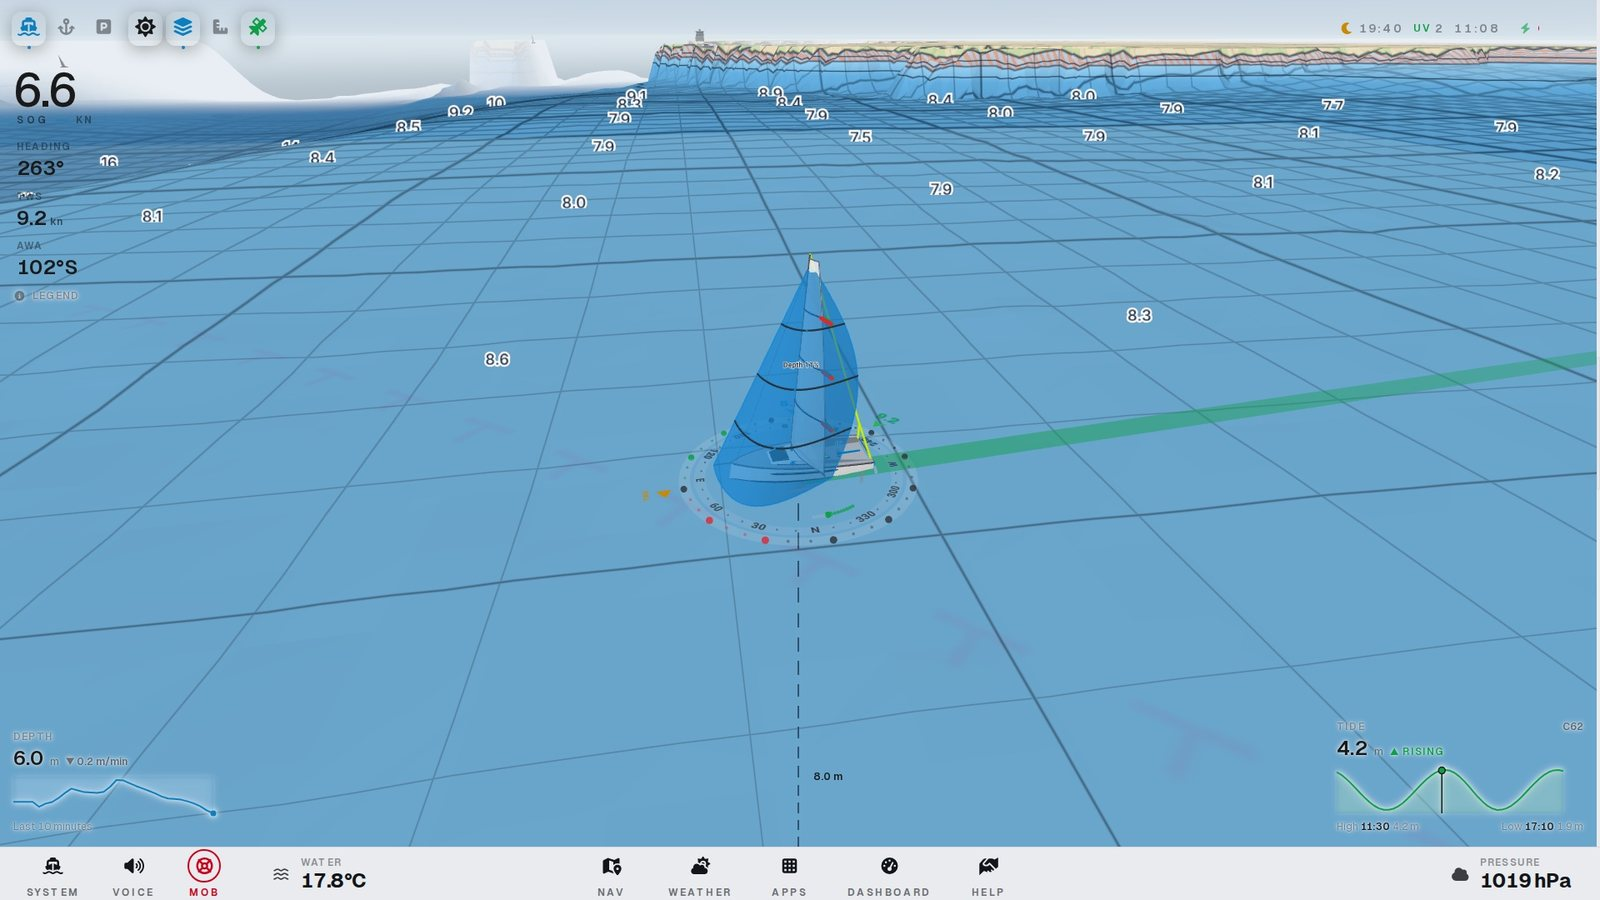
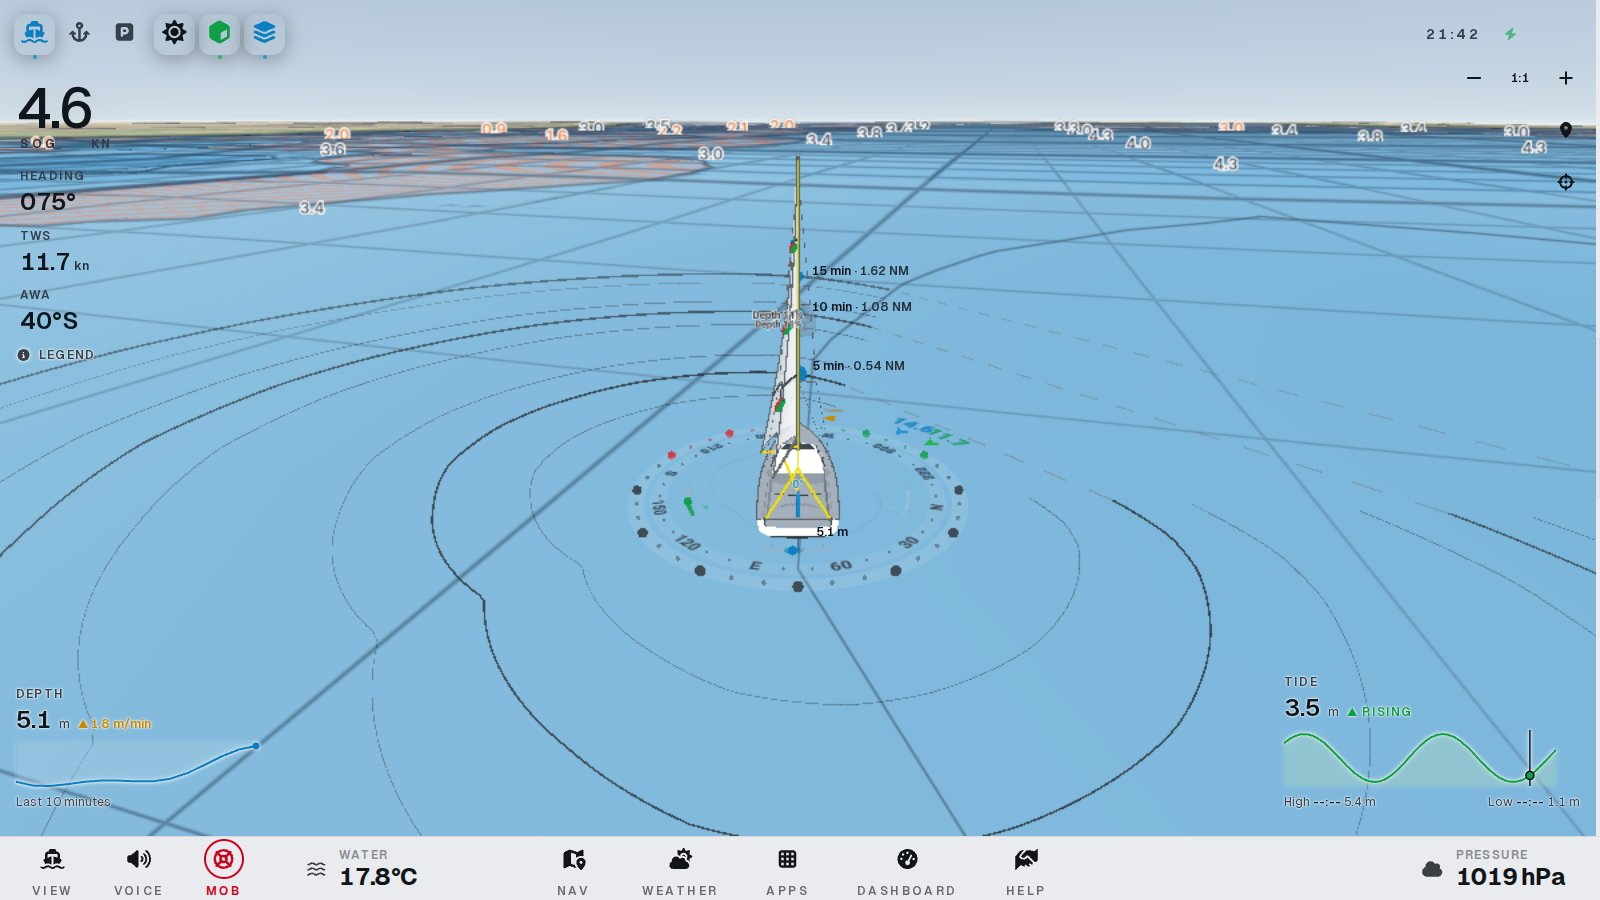
[Setup] Release 2.1.3: README, guide, website and screenshots for the base and layers 3D view, currents, NOAA charts and the finer seabed

diff --git a/CHANGELOG.md b/CHANGELOG.md
@@ -1,37 +1,40 @@
-## [Unreleased]
+## [2.1.3] - 2026-10-18
+
+The 3D view becomes a base and layers: the sea, a grid or the 3D chart, with AIS, wind, currents, laylines, the polar and buoys on top. Currents arrive, the wind and the currents read like a chart plotter's tidal streams, the seabed is finer all over the world and NOAA's charts show in US waters. Full speed again on the Raspberry Pi, sharper on phones.
 
 ### Added
 
 - **Currents layer.** The water column of the 3D chart, from the surface down to the seabed, coloured by the current (Grid Viewer's thermal colour map): the deeper the water and the stronger the stream, the denser the colour; slack water and shallows stay light over the relief. Arrows drawn the way chart plotters draw tidal streams give the direction: as long as the stream is strong, the speed written on them, a red border when it builds over the next hour and a blue one when it eases, "Slack" when it stops; they keep the same size on screen near and far, spread evenly from the cockpit to the horizon. Forecast from the Open-Meteo marine API (Mercator Ocean's SMOC, 1/12°, tides included), 48 hours on the forecast bar; the colour scale spans the strongest current of the two days around. Offline, the current the instruments measure.
 - **Currents over every base**: the arrows alone over the sea and the grid; the 3D chart also colours the water column.
-- **NOAA nautical charts in US waters.** Where the Signal K server has no chart, the 3D chart lays NOAA's official chart (drawn from its electronic charts by the NOAA Chart Display Service, public domain) over OpenStreetMap: depths, buoys, lights, bridge clearances, anchorages. Its tiles can be downloaded ahead with the area, in the settings.
+- **NOAA nautical charts in US waters.** Where the Signal K server has no chart, the 3D chart lays NOAA's official chart (drawn from its electronic charts by the NOAA Chart Display Service, public domain) over OpenStreetMap: depths, buoys, lights, bridge clearances, anchorages. Drawn more opaque than OpenStreetMap over the seabed (a real chart, like one from the Signal K server). Its tiles can be downloaded ahead with the area, in the settings.
 - **Finer seabed all over the world.** Outside the SHOM surveys, the 3D chart takes the best open grid for the area: EMODnet Bathymetry in Europe (~115 m) and NOAA NCEI's DEM mosaic elsewhere (coastal surveys down to a few metres along the US coasts, ETOPO 2022 at ~450 m everywhere else), instead of the ~1.8 km global relief. Kept for offline use and downloaded with the area in the settings.
 - **One card per corner, changed with a tap** (full screen): depth, wind, speed and tide in turn; depth on the left and tide on the right by default, the choice kept. Every card records its last 10 minutes from the start, so the curve is full when tapped to. A new speed card: SOG, STW and the best of the last 10 minutes with their curve.
+- **VIEW button**: the boat full screen, or the boat beside the app (a phone shows one or the other); settings come first in the APPS menu, and an app opens beside the boat.
 - **Speed at the boat over the next two days** on the forecast bar, for the wind and the current: the turn of the tide or the arrival of a front at a glance, the value at the chosen hour beside it.
 
 ### Changed
 
-- **Wind layer as a volume of air.** The air above the water coloured by the wind, more with the depth of air towards the horizon, gusty wisps drifting with it, arrows at 10 m in the same chart plotter style (speed in knots, building or easing), and 150 streaks instead of 1 100. The flat sheet stays available (`windStyle: 'sheet'`), and Windy's colours can give way to a Grid Viewer colour map (`windColorMap`).
-
+- **Website at [ocearo.leslaborie.org](https://ocearo.leslaborie.org)** (the old address redirects), with an About section, a contact address and an llms.txt.
+- **Wind layer as a volume of air.** The air above the water coloured by the wind, more with the depth of air towards the horizon, gusty wisps drifting with it, arrows just above the waves in the same chart plotter style (speed in knots, building or easing), and 150 streaks instead of 1 100. The flat sheet stays available (`windStyle: 'sheet'`), and Windy's colours can give way to a Grid Viewer colour map (`windColorMap`).
 - **Three bases and layers in the 3D view.** One button cycles the base: the sea, the plain grid, or the 3D chart (seabed relief with the chart over it); the flat chart and the meteo map are gone (a saved meteo view opens as the 3D chart with the wind). A layers button adds, on any base: other vessels (AIS), wind (Windy-style; streaks only over the sea), laylines, polar, buoys and beacons.
 - **Phones and split view: the vertical depth and tide gauges again**; the depth, wind and tide cards are for full screen when there is room.
 - **Phone on its side: the depth and tide gauges side by side at the bottom right**, clear of the speed, heading and wind values down the left edge.
 - **Opaque menus** (APPS, layers): they read on a phone and on a Pi.
 - **Windsurf and wing foil let out their rig for the wind**, like the racer's boom, the hands staying on the wishbone or the handles.
 - **Sharper 3D on phones**: up to 2.5 pixels per CSS pixel instead of 1.5.
-
 - **Boats: the Racer 10.8 first, "Default" renamed "Sailboat".** The old low-poly sailboat is gone; a boat saved as "Default" becomes "Sailboat", the Optimist goes back to the Racer.
-
 - **Windsurf and Wing foil boats: the author riding them.** The Optimist and the old static windsurf are replaced by two animated models with their rider (the author's 3D avatar): a JP Magic Ride 119 with a Duotone E_Pace 6.2, and a wing foil board on its foil with a 5 m² wing. The rider moves to the windward rail on the other tack, rides faster with the speed, and the foil board lifts off from about 7 knots. Drawn 2.2 times larger than life so they read in the compass ring; under 1 MB each (Draco). A boat set to Optimist goes back to the default one.
 
 ### Fixed
 
+- **Bottom bar on a phone on its side and on a 1024 px tablet**: the water temperature ran over the buttons in the middle.
+- **Course advice banner over the depth and tide cards** on a narrow full screen: it now stays between them.
+- **Wind and current arrows over the HUD**: no arrow is drawn under the values, the bars or the cards; the forecast bar sits beside the values on a phone held upright.
+- **3D view at 0.5 fps on the Raspberry Pi**: every line recompiled its shader on each render. The Pi is now told by its GPU (its reduced user agent says x86), draws at 75 % resolution and without the HUD's backdrop blur.
+- **Logbook kept the Pi's browser at 100 % CPU**: the table re-rendered on every Signal K delta; live values are now read when an entry is written.
 - **Phone on its side: nothing on top of anything.** The forecast bar shrinks to the slider and the curves and becomes nearly opaque (vessel names and arrow speeds showed through), the speed and the values on the left get smaller so the last one is no longer cut by the bottom bar, and the speeds on the wind and current arrows hide under the HUD like the vessel names.
-
 - **Layers menu on phones.** It ran off the right edge of a phone held upright, was cut at the bottom on a phone on its side, and opened under the HUD values, the give-way banner and the vessel card: it now opens leftwards upright, in two columns on its side, over the HUD.
-
 - **Fuzzy text over the 3D chart.** The HUD's secondary text was translucent black, a dull blue-grey over the water, with a wide blurred halo: now opaque greys and a tight outline.
-
 - **True wind from the apparent wind** when the boat publishes none (many instruments, and the Signal K demo server): the polar, the sail plan and the laylines took 0 kn from dead ahead.
 - **Demo mode no longer rewrites the server's data**: the sample values only fill in what the server does not send (the wind angle spun every 5 s over the demo server's own wind).
 - **Blurry 3D on phones in automatic quality.** Phone GPUs (Mali, Adreno, PowerVR) were taken for a Raspberry Pi: 75 % resolution, no anti-aliasing, 30 fps. The reduced profile is now for the Pi's own GPU and software rendering only.

diff --git a/README.fr.md b/README.fr.md
@@ -44,7 +44,7 @@
 ## Points forts
 
 - **Un bateau qu’on règle depuis l’écran.** Grand-voile, voiles d’avant et spi asymétrique dessinés d’après le vent (creux, vrillage, ris, changements de voile), avec bandes de creux, penons, chariot de grand-voile et chariots de foc à leur place.
-- **La mer autour de vous, de cinq façons.** Une mer réaliste construite à partir du vent réel (ou mesurée par une centrale inertielle), la carte en direct avec le balisage, le fond en 3D, la prévision de vent, ou un sol épuré façon FSD pour la régate — avec les bouées et balises en 3D et le vrai ciel de nuit.
+- **La mer autour de vous, en couches.** Trois bases — une mer réaliste construite à partir du vent réel (ou mesurée par une centrale inertielle), une grille épurée façon FSD pour la régate, ou la carte 3D avec les fonds en relief — et des couches par-dessus : trafic AIS, prévision de vent et de courants, laylines, polaire, bouées et balises en 3D, et le vrai ciel de nuit. Cartes NOAA dans les eaux américaines, des fonds plus fins partout dans le monde.
 - **Un trafic lisible d’un coup d’œil.** Les cibles AIS dessinées selon leur type et leur taille réels, qui glissent entre deux messages, colorées selon qui doit manœuvrer d’après le RIPAM — avec la manœuvre à faire.
 - **La tactique.** Laylines vers le waypoint, isochrones tirées de vos polaires (où vous serez dans 5, 10 et 15 minutes), conseil VMG et bateau fantôme à la vitesse polaire.
 - **La sécurité d’abord.** Repère homme à la mer avec dérive estimée, veille au mouillage avec la vraie trace d’évitage, alerte de petits fonds selon votre tirant d’eau.
@@ -55,14 +55,16 @@
 
 ## La vue 3D
 
-Le cœur d’Ocearo est une scène 3D en direct centrée sur votre bateau. Un bouton fait défiler cinq représentations du monde autour.
+Le cœur d’Ocearo est une scène 3D en direct centrée sur votre bateau. Un bouton choisit la base — la mer, une grille ou la carte 3D — et le menu des couches ajoute ce qu’il faut par-dessus : trafic AIS, vent, courants, laylines, polaire, bouées et balises.
 
 | | |
 |---|---|
-| ![Carte en direct avec balisage et AIS](docs/screenshots/chart.jpg) | ![Bathymétrie SHOM en grille de relevé](docs/screenshots/bathymetry.jpg) |
-| **Carte.** OpenStreetMap avec le balisage et les feux OpenSeaMap, à l’échelle de votre bateau et des cibles AIS. Utilise un fournisseur de cartes Signal K (MBTiles) s’il est installé. | **Bathymétrie.** Le fond en grille de relevé : relief exagéré, isobathes, sondes à la marée du moment, ligne de sondeur depuis la quille, et l’eau trop peu profonde pour votre tirant d’eau hachurée en orange. Relevés SHOM de 5 à 20 m sur les côtes françaises, relief mondial ailleurs. |
-| ![Calque de prévision de vent](docs/screenshots/weather.jpg) | ![Isochrones et laylines](docs/screenshots/polars.jpg) |
-| **Météo.** La prévision de vent à 48 h autour du bateau (Open-Meteo) aux couleurs de Windy, avec un curseur de temps. | **Polaires et laylines.** Où les polaires vous mettent dans 5, 10 et 15 minutes à chaque cap, les laylines vers le waypoint et la VMG à suivre. |
+| ![Carte 3D : les fonds en relief, la carte par-dessus](docs/screenshots/bathymetry.jpg) | ![Courants : l’eau colorée par le courant, flèches façon traceur](docs/screenshots/currents.jpg) |
+| **Carte 3D.** Les fonds en relief, colorés selon la profondeur, avec la carte en transparence par-dessus : isobathes, sondes à la marée du moment, ligne de sondeur depuis la quille, et l’eau trop peu profonde pour votre tirant d’eau hachurée en orange. Relevés SHOM de 5 à 20 m en France, EMODnet (~115 m) en Europe, grilles NOAA ailleurs (quelques mètres le long des côtes américaines). | **Courants.** L’eau, de la surface au fond, colorée par le courant (prévision Mercator via Open-Meteo, marée comprise) : claire à l’étale et sur les hauts-fonds, pleine couleur là où il porte. Des flèches façon traceur de cartes donnent la direction et la vitesse en nœuds, avec un liseré rouge quand il forcit et bleu quand il faiblit. |
+| ![Prévision de vent en 3D : flèches avec la vitesse et la courbe sur 48 h](docs/screenshots/weather.jpg) | ![Isochrones et laylines](docs/screenshots/polars.jpg) |
+| **Vent.** La prévision à 48 h autour du bateau (Open-Meteo) aux couleurs de Windy : l’air teinté par le vent, quelques traits et des flèches avec la force en nœuds. La barre de prévision a un curseur de temps et la courbe du vent et du courant au bateau sur les deux jours. | **Polaires et laylines.** Où les polaires vous mettent dans 5, 10 et 15 minutes à chaque cap, les laylines vers le waypoint et la VMG à suivre. |
+| ![Carte marine NOAA sur les fonds aux Narrows, New York](docs/screenshots/chart.jpg) | ![Menu des couches, barre de prévision et cartes des coins](docs/screenshots/layers.jpg) |
+| **Cartes.** Dans les eaux américaines, la carte marine officielle de la NOAA (sondes, bouées, feux, tirants d’air des ponts) ; ailleurs OpenStreetMap avec le balisage OpenSeaMap, ou vos propres MBTiles via un fournisseur de cartes Signal K. | **Couches et cartes des coins.** Le menu des couches active ou coupe l’AIS, le vent, les courants, les laylines, la polaire et le balisage sur n’importe quelle base. En plein écran, une carte dans chaque coin du bas — fond, vent, vitesse ou marée, changée d’un tap — avec ses 10 dernières minutes. |
 | ![Ciel de nuit : la Lune, Mars, Jupiter, Procyon et Sirius au-dessus de l’entrée de La Rochelle, feux des bouées allumés](docs/screenshots/night-sky.jpg) | ![Bouées cardinales au crépuscule, feu allumé](docs/screenshots/seamarks.jpg) |
 | **Ciel de nuit.** Les 57 étoiles de navigation et la Polaire, Vénus, Mars, Jupiter, Saturne et la Lune avec sa phase, à leur vraie place d’après votre position et l’heure GPS (à quelques minutes d’arc près) ; les plus brillantes sont nommées. 2 novembre 2026, 2 h, au large de La Rochelle. | **Bouées et balises.** Cardinales, latérales, danger isolé, eaux saines et marques spéciales en 3D d’après OpenSeaMap, avec leurs couleurs, leur voyant et leur feu qui clignote à son vrai rythme la nuit, et les balises AIS reçues (les virtuelles en fantôme), aussi sur le radar. Téléchargées une fois, gardées hors-ligne ; désactivables. |
 

diff --git a/README.md b/README.md
@@ -44,7 +44,7 @@
 ## Highlights
 
 - **A boat you can trim from the screen.** Main, headsails and asymmetric spinnaker drawn from the wind (camber, twist, reefs, sail changes), with draft stripes, telltales and the traveller and jib cars where they should be.
-- **The sea around you, five ways.** A realistic sea built from the true wind (or measured by a motion sensor), the live chart with buoyage, the seabed in 3D, the wind forecast, or a clean FSD-style ground for racing — with the buoys and beacons in 3D and the real night sky.
+- **The sea around you, in layers.** Three bases — a realistic sea built from the true wind (or measured by a motion sensor), a clean FSD-style grid for racing, or the 3D chart with the seabed in relief — and layers on top: AIS traffic, the wind and currents forecast, laylines, the polar, buoys and beacons in 3D, and the real night sky. NOAA charts in US waters, a finer seabed worldwide.
 - **Traffic you can read at a glance.** AIS targets drawn as real ship types and sizes, moving smoothly between reports, coloured by who must give way under COLREG — with the manoeuvre to make.
 - **Tactics.** Laylines to the waypoint, isochrones from your polars (where you will be in 5, 10 and 15 minutes), VMG advice and a polar-speed ghost boat.
 - **Safety first.** Man-overboard marker with drift prediction, anchor watch with the real swing track, shallow-water warnings against your draft.
@@ -55,14 +55,16 @@
 
 ## The 3D view
 
-The heart of Ocearo is a live 3D scene centred on your boat. A button cycles between five representations of the world around it.
+The heart of Ocearo is a live 3D scene centred on your boat. One button picks the base — the sea, a plain grid or the 3D chart — and the layers menu adds what you need on top: AIS traffic, wind, currents, laylines, the polar, buoys and beacons.
 
 | | |
 |---|---|
-| ![Live chart with buoyage and AIS](docs/screenshots/chart.jpg) | ![SHOM bathymetry as a survey grid](docs/screenshots/bathymetry.jpg) |
-| **Chart.** OpenStreetMap with OpenSeaMap buoyage and lights, true to scale with your boat and the AIS targets. Uses a Signal K chart provider (MBTiles) when one is installed. | **Bathymetry.** The seabed as a survey grid: relief exaggerated, isobaths, soundings at the current tide, a sounder line from the keel, and water too shallow for your draft hatched in orange. 5–20 m SHOM surveys on the French coast, global relief elsewhere. |
-| ![Wind forecast layer](docs/screenshots/weather.jpg) | ![Isochrones and laylines](docs/screenshots/polars.jpg) |
-| **Weather.** The 48-hour wind forecast around the boat (Open-Meteo) in Windy colours, with a time slider. | **Polars and laylines.** Where the polars put you in 5, 10 and 15 minutes on every heading, the laylines to the waypoint and the VMG to steer. |
+| ![3D chart: the seabed in relief with the chart over it](docs/screenshots/bathymetry.jpg) | ![Currents: the water coloured by the current, chart-plotter arrows](docs/screenshots/currents.jpg) |
+| **3D chart.** The seabed in relief, coloured by depth, with the chart over it in transparency: isobaths, soundings at the current tide, a sounder line from the keel, and water too shallow for your draft hatched in orange. 5–20 m SHOM surveys in France, EMODnet (~115 m) in Europe, NOAA grids elsewhere (a few metres along the US coasts). | **Currents.** The water from the surface to the seabed coloured by the current (Mercator forecast through Open-Meteo, tides included): light in slack water and over the shallows, the full colour where it runs. Arrows in the chart-plotter style give the direction and the speed in knots, with a red border when it builds and a blue one when it eases. |
+| ![Wind forecast in 3D: arrows with the speed and the 48-hour curve](docs/screenshots/weather.jpg) | ![Isochrones and laylines](docs/screenshots/polars.jpg) |
+| **Wind.** The 48-hour forecast around the boat (Open-Meteo) in Windy colours: the air tinted by the wind, a few streaks and arrows with the speed in knots. The forecast bar has a time slider and the wind and current at the boat over the two days. | **Polars and laylines.** Where the polars put you in 5, 10 and 15 minutes on every heading, the laylines to the waypoint and the VMG to steer. |
+| ![NOAA nautical chart over the seabed at the Narrows, New York](docs/screenshots/chart.jpg) | ![Layers menu, forecast bar and corner cards](docs/screenshots/layers.jpg) |
+| **Charts.** In US waters the official NOAA nautical chart (depths, buoys, lights, bridge clearances); OpenStreetMap with OpenSeaMap buoyage elsewhere, or your own MBTiles through a Signal K chart provider. | **Layers and cards.** The layers menu turns AIS, wind, currents, laylines, the polar and buoys on or off over any base. In full screen, one card in each bottom corner — depth, wind, speed or tide, changed with a tap — with its last 10 minutes. |
 | ![Night sky: the Moon, Mars, Jupiter, Procyon and Sirius over the entrance to La Rochelle, buoy lights flashing](docs/screenshots/night-sky.jpg) | ![Cardinal buoys at dusk, light flashing](docs/screenshots/seamarks.jpg) |
 | **Night sky.** The 57 navigational stars and Polaris, Venus, Mars, Jupiter, Saturn and the Moon with its phase, where they really are from your position and the GPS time (within a few arc minutes); the brightest are named. 2 November 2026, 02:00, off La Rochelle. | **Buoys and beacons.** Cardinal, lateral, isolated danger, safe water and special marks in 3D from OpenSeaMap, with their colours, topmark and light flashing its real rhythm at night, and the AIS aids to navigation received (virtual ones as a ghost), also on the radar. Downloaded once, kept offline; can be turned off. |
 
